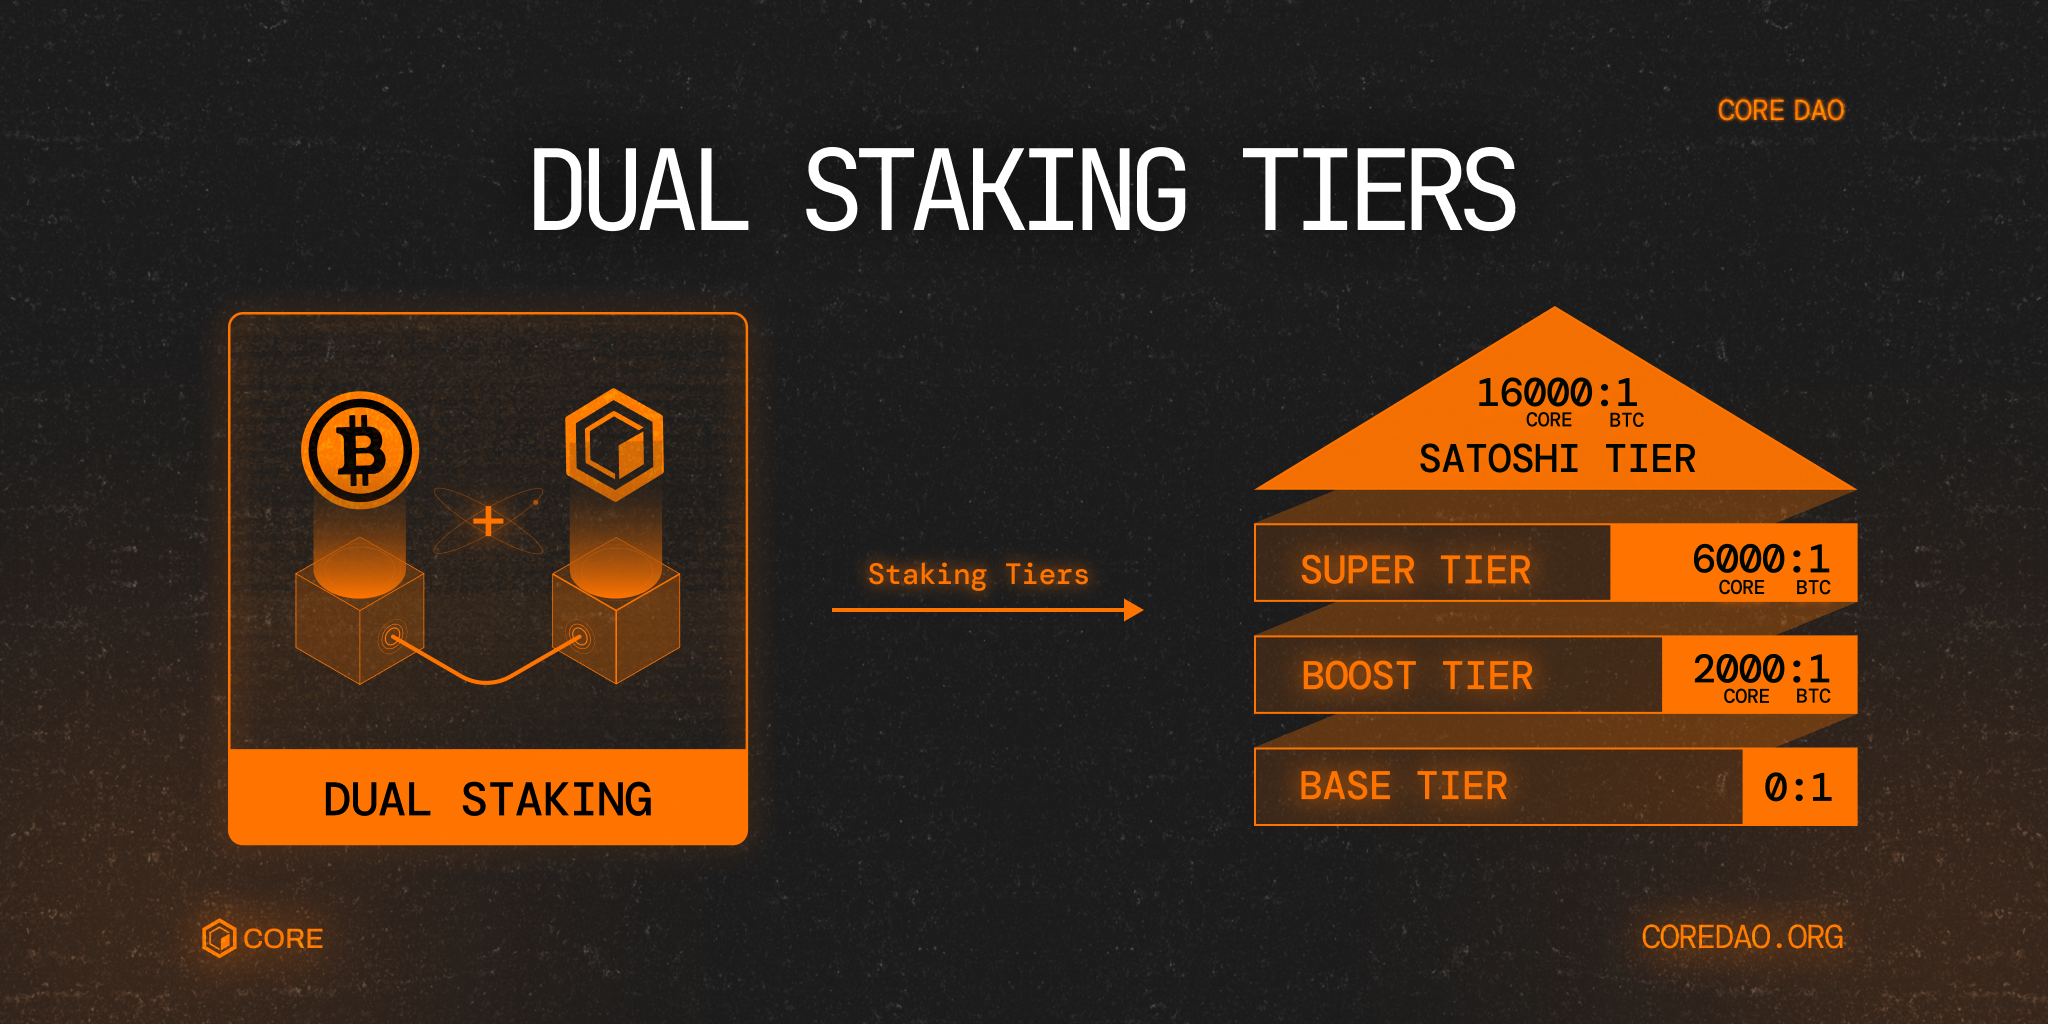
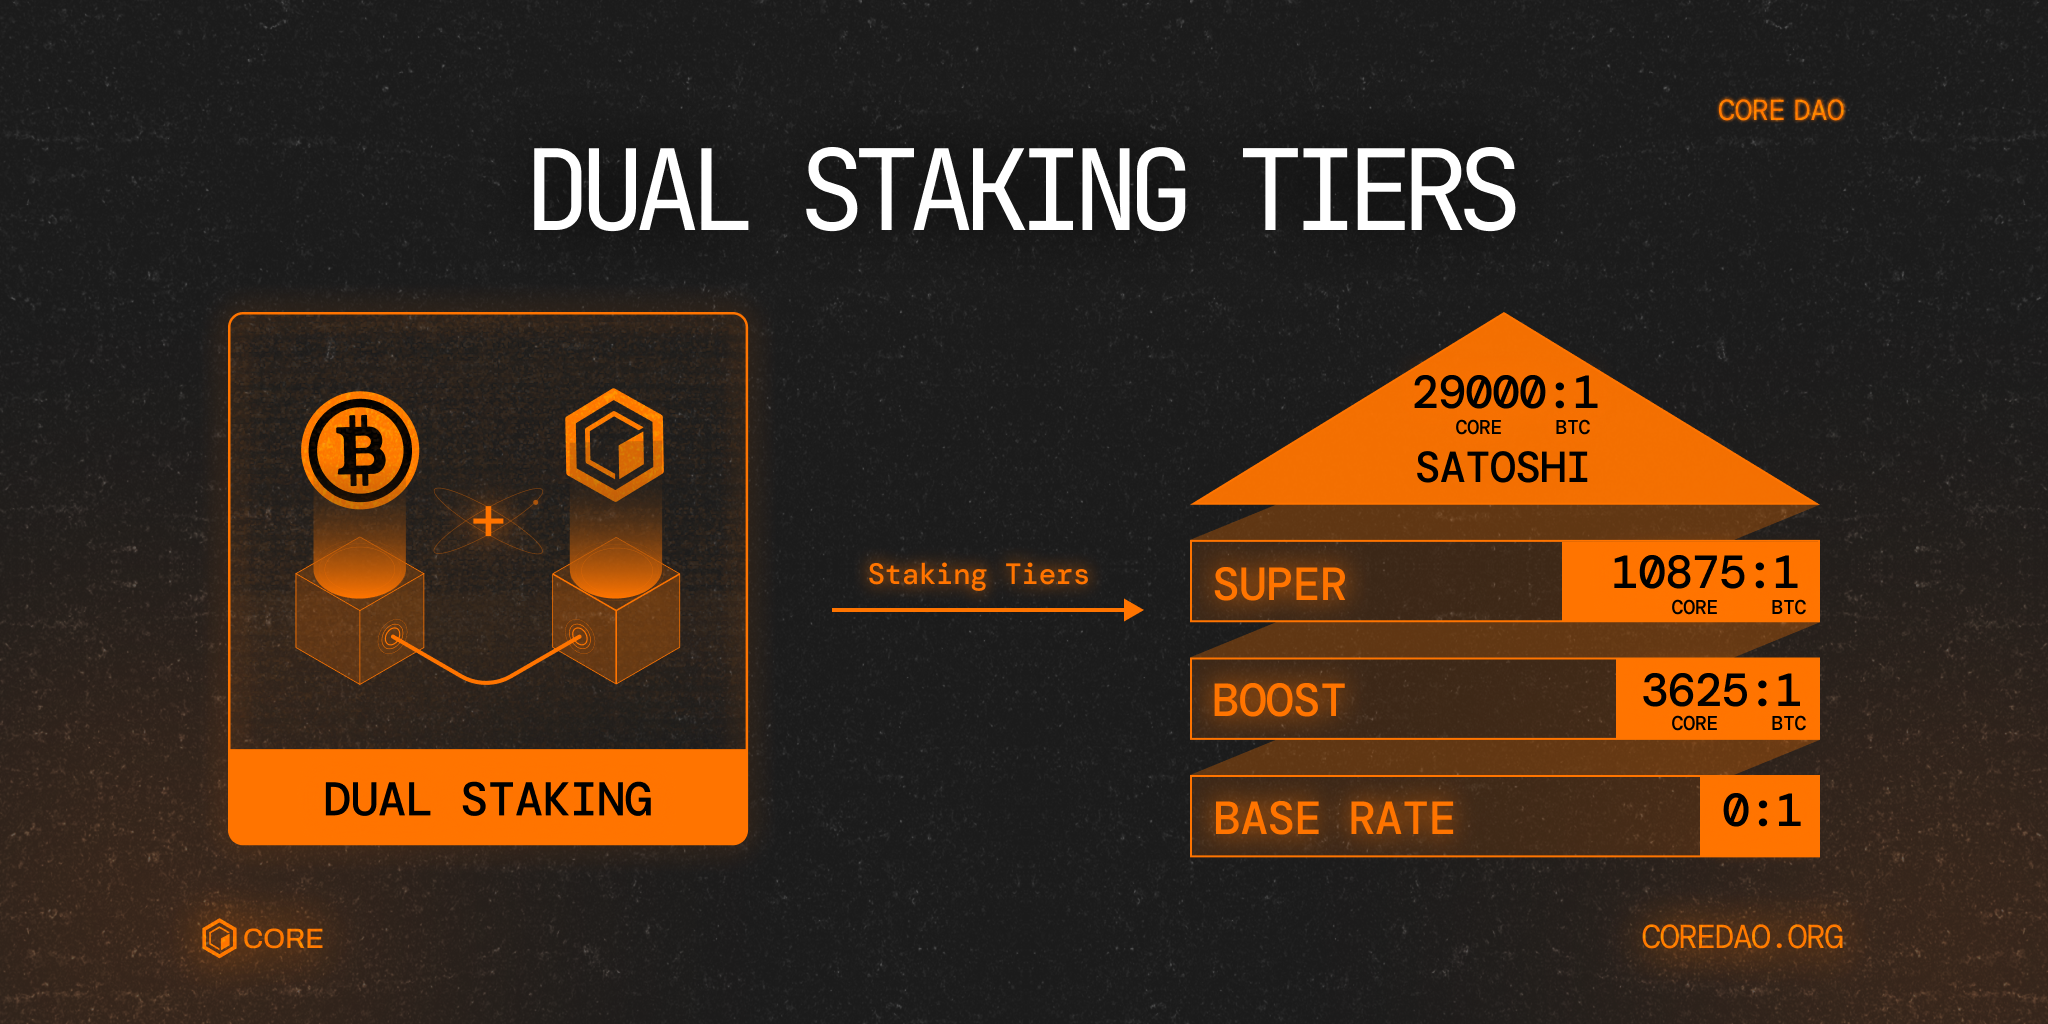
updated dual staking tiers

Changed region(s): [[0.5625, 0.2812, 0.9062, 0.8438]]

diff --git a/docs/stake-and-delegate/dual-staking-working.md b/docs/stake-and-delegate/dual-staking-working.md
@@ -19,7 +19,7 @@ Core operates on **Satoshi Plus consensus**, integrating three delegation source
 By meeting specific **CORE-to-BTC staking ratios**, users gain **boosted Bitcoin staking rewards**, paid in CORE. While Dual Staking enhances BTC staking yields, it does not affect CORE staking rewards directly.
 
 <p align="center">
-<img width="1024" alt="Dual Staking Tiers (8)" src="https://github.com/user-attachments/assets/6ce41ca4-fc7e-476a-814c-4f56665b3c48" />
+<img width="1024" alt="DualStakingTiers" src="../../static/img/dual-staking/dual-staking-tiers.png" />
 </p>
 
 ### Boosted Yield Thresholds
@@ -43,9 +43,9 @@ Effectively, the CORE emissions are distributed pro rata based on the BTC TVL, w
 
 The deciding mechanism for a Bitcoin staker’s yield tier (**P<sub>BASE</sub>**, **P<sub>Level1</sub>**, **P<sub>Level2</sub>**, or **P<sub>Level3</sub> (P<sub>MAX</sub>)**) is based on CORE tokens staked relative to Bitcoin staked, where **R** represents the `CORE:BTC` Ratio and **R<sub>3</sub> \> R<sub>2</sub> \> R<sub>1</sub>**. The current CORE:BTC staking ratios are as follows:
 
-- Staking Ratio R1 \= 3,000 CORE per 1 BTC
-- Staking Ratio R2 \= 9,000 CORE per 1 BTC
-- Staking Ratio R3 \= 24,000 CORE per 1 BTC
+- Staking Ratio R1 \= 3,625 CORE per 1 BTC
+- Staking Ratio R2 \= 10,875 CORE per 1 BTC
+- Staking Ratio R3 \= 29,000 CORE per 1 BTC
 
 Keeping these ratios in mind, users can calculate the required threshold for each tier as follows:
 
@@ -74,23 +74,23 @@ The following is a simple example explaining how to calculate the required CORE 
 
 Now, the user will have to stake CORE as per the following Staked CORE Thresholds to enjoy a higher yield on their staked BTC with the above variables:
 
-- Staking Ratio **R<sub>1</sub>** \= 3,000
-- Staking Ratio **R<sub>2</sub>** \= 9,000
-- Staking Ratio **R<sub>3</sub>** \= 24,000
+- Staking Ratio **R<sub>1</sub>** \= 3,625
+- Staking Ratio **R<sub>2</sub>** \= 10,875
+- Staking Ratio **R<sub>3</sub>** \= 29,000
 - Staked BTC quantity \= 10 BTC
 
 The **Staked CORE Thresholds** with the above variables are:
 
-- Staked CORE Threshold for **P<sub>Level1</sub>** \= 10 \* 3,000 \= 30,000 staked CORE
-- Staked CORE Threshold for **P<sub>Level2</sub>** \= 10 \* 9,000 \= 90,000 staked CORE
-- Staked CORE Threshold for **P<sub>Level3</sub>** \= 10 \* 24,000 \= 240,000 staked CORE
+- Staked CORE Threshold for **P<sub>Level1</sub>** \= 10 \* 3,625 \= 36,250 staked CORE
+- Staked CORE Threshold for **P<sub>Level2</sub>** \= 10 \* 10,875 \= 108,875 staked CORE
+- Staked CORE Threshold for **P<sub>Level3</sub>** \= 10 \* 29,000 \= 290,000 staked CORE
 
 Hence, the staked BTC in this example will enjoy a yield of
 
-- **P<sub>BASE</sub>** if the amount of staked CORE is below 30,000
-- **P<sub>Level1</sub>** if the amount of staked CORE is above or equal to 30,000 but below 90,000
-- **P<sub>Level2</sub>** if the amount of staked CORE is above or equal to 90,000 but below 240,000
-- **P<sub>Level3</sub> (P<sub>MAX</sub>)** if the amount of staked CORE is above or equal to 240,000
+- **P<sub>BASE</sub>** if the amount of staked CORE is below 36,250
+- **P<sub>Level1</sub>** if the amount of staked CORE is above or equal to 36,250 but below 108,875
+- **P<sub>Level2</sub>** if the amount of staked CORE is above or equal to 108,875 but below 290,000
+- **P<sub>Level3</sub> (P<sub>MAX</sub>)** if the amount of staked CORE is above or equal to 290,000
 
 :::note
 The multiplier on each boosted yield tier is dynamic and subject to change based on market supply and demand conditions.

diff --git a/i18n/es/docusaurus-plugin-content-docs/current/stake-and-delegate/dual-staking-working.md b/i18n/es/docusaurus-plugin-content-docs/current/stake-and-delegate/dual-staking-working.md
@@ -43,9 +43,9 @@ Efectivamente, las emisiones de CORE se distribuyen de manera proporcional segú
 
 El mecanismo decisivo para el nivel de rendimiento de un staker de Bitcoin (**P<sub>BASE</sub>**, **P<sub>Level1</sub>**, **P<sub>Level2</sub>**, o **P<sub>Level3</sub> (P<sub>MAX</sub>)**) se basa en los tokens CORE en staking en relación con el Bitcoin en staking, donde **R** representa la relación `CORE:BTC` y **R<sub>3</sub> \> R<sub>2</sub> \> R<sub>1</sub>**. Los actuales ratios de staking CORE:BTC son los siguientes:
 
-- Ratio de Staking R1 \= 3,000 CORE por 1 BTC
-- Ratio de Staking R2 \= 9,000 CORE por 1 BTC
-- Ratio de Staking R3 \= 24,000 CORE por 1 BTC
+- Ratio de Staking R1 \= 3,625 CORE por 1 BTC
+- Ratio de Staking R2 \= 10,875 CORE por 1 BTC
+- Ratio de Staking R3 \= 29,000 CORE por 1 BTC
 
 Teniendo en cuenta estos ratios, los usuarios pueden calcular el umbral requerido para cada nivel como sigue:
 
@@ -74,23 +74,23 @@ El siguiente es un ejemplo sencillo que explica cómo calcular la cantidad de CO
 
 Ahora, el usuario deberá hacer staking de CORE según los siguientes umbrales de CORE en staking para disfrutar de un mayor rendimiento en su BTC en staking con las variables mencionadas anteriormente:
 
-- La relación de staking **R<sub>1</sub>** = 3,000
-- La relación de staking **R<sub>2</sub>** = 9,000
-- La relación de staking **R<sub>3</sub>** = 24,000
+- La relación de staking **R<sub>1</sub>** = 3,625
+- La relación de staking **R<sub>2</sub>** = 10,875
+- La relación de staking **R<sub>3</sub>** = 29,000
 - Cantidad de BTC en staking \= 10 BTC
 
 Los **Umbrales de CORE en Staking** con las variables mencionadas anteriormente son:
 
-- El umbral de CORE en staking para **P<sub>Level1</sub>** \= 10 \* 3,000 \= 30,000 CORE en staking
-- El umbral de CORE en staking para **P<sub>Level2</sub>** = 10 \* 9,000 = 90,000 CORE en staking
-- El umbral de CORE en staking para **P<sub>Level3</sub>** \= 10 \* 24,000 \= 240,000 CORE en staking
+- El umbral de CORE en staking para **P<sub>Level1</sub>** \= 10 \* 3,625 \= 36,250 CORE en staking
+- El umbral de CORE en staking para **P<sub>Level2</sub>** = 10 \* 10,875 = 108,750 CORE en staking
+- El umbral de CORE en staking para **P<sub>Level3</sub>** \= 10 \* 29,000 \= 290,000 CORE en staking
 
 Por lo tanto, el BTC en staking en este ejemplo disfrutará de un rendimiento de
 
-- **P<sub>BASE</sub>** si la cantidad de CORE en staking es inferior a 30,000
-- **P<sub>Nivel1</sub>** si la cantidad de CORE en staking es igual o superior a 30,000 pero inferior a 90,000
-- **P<sub>Nivel2</sub>** si la cantidad de CORE en staking es igual o superior a 90,000 pero inferior a 240,000
-- **P<sub>Nivel3</sub>** si la cantidad de CORE en staking es igual o superior a 240,000
+- **P<sub>BASE</sub>** si la cantidad de CORE en staking es inferior a 36,250
+- **P<sub>Nivel1</sub>** si la cantidad de CORE en staking es igual o superior a 36,250 pero inferior a 108,750
+- **P<sub>Nivel2</sub>** si la cantidad de CORE en staking es igual o superior a 108,750 pero inferior a 290,000
+- **P<sub>Nivel3</sub>** si la cantidad de CORE en staking es igual o superior a 290,000
 
 :::note
 El multiplicador en cada nivel de rendimiento incrementado es dinámico y está sujeto a cambios según las condiciones de oferta y demanda del mercado

diff --git a/i18n/fr/docusaurus-plugin-content-docs/current/stake-and-delegate/dual-staking-working.md b/i18n/fr/docusaurus-plugin-content-docs/current/stake-and-delegate/dual-staking-working.md
@@ -43,9 +43,9 @@ En pratique, les émissions de CORE sont distribuées au prorata en fonction de 
 
 Le mécanisme de décision pour le niveau de rendement d'un staker de Bitcoin (**P<sub>BASE</sub>**, **P<sub>Niveau1</sub>**, **P<sub>Niveau2</sub>**, or **P<sub>Niveau3</sub> (P<sub>MAX</sub>)**) est basé sur les tokens CORE stakés par rapport au Bitcoin staké, où R représente le ratio `CORE:BTC` et **R<sub>3</sub> \> R<sub>2</sub> \> R<sub>1</sub>**. Les ratios de staking CORE:BTC actuels sont les suivants :
 
-- Staking Ratio R1 \= 3,000 CORE per 1 BTC
-- Staking Ratio R2 \= 9,000 CORE per 1 BTC
-- Staking Ratio R3 \= 24,000 CORE per 1 BTC
+- Staking Ratio R1 \= 3,625 CORE per 1 BTC
+- Staking Ratio R2 \= 10,875 CORE per 1 BTC
+- Staking Ratio R3 \= 29,000 CORE per 1 BTC
 
 En gardant ces ratios à l'esprit, les utilisateurs peuvent calculer le seuil requis pour chaque niveau comme suit :
 
@@ -74,23 +74,23 @@ Voici un exemple simple expliquant comment calculer le CORE requis pour staker, 
 
 Supposons que l'utilisateur doive staker du CORE selon les Seuils de CORE Staké suivants pour bénéficier d'un rendement plus élevé sur son BTC staké avec les variables ci-dessus :
 
-- Staking Ratio **R<sub>1</sub>** \= 3,000
-- Staking Ratio **R<sub>2</sub>** \= 9,000
-- Staking Ratio **R<sub>3</sub>** \= 24,000
+- Staking Ratio **R<sub>1</sub>** \= 3,625
+- Staking Ratio **R<sub>2</sub>** \= 10,875
+- Staking Ratio **R<sub>3</sub>** \= 29,000
 - Quantité de BTC staké \= 10 BTC
 
 Les **Seuils de CORE Staké** avec les variables ci-dessus sont :
 
-- Staked CORE Threshold for **P<sub>Level1</sub>** \= 10 \* 3,000 \= 30,000 staked CORE
-- Staked CORE Threshold for **P<sub>Level2</sub>** \= 10 \* 9,000 \= 90,000 staked CORE
-- Seuil de CORE staké **P<sub>Level3</sub>** \= 10 \* 24,000 \= 240,000 staked CORE
+- Staked CORE Threshold for **P<sub>Level1</sub>** \= 10 \* 3,625 \= 36,250 staked CORE
+- Staked CORE Threshold for **P<sub>Level2</sub>** \= 10 \* 10,875 \= 108,875 staked CORE
+- Seuil de CORE staké **P<sub>Level3</sub>** \= 10 \* 29,000 \= 290,000 staked CORE
 
 Ainsi, le BTC staké dans cet exemple bénéficiera d'un rendement de :
 
-- **P<sub>BASE</sub>** si la quantité de CORE staké est inférieure à 30 000
-- **P<sub>Niveau1</sub>** si la quantité de CORE staké est supérieure ou égale à 30 000 mais inférieure à 90 000
-- **P<sub>Niveau2</sub>** si la quantité de CORE staké est supérieure ou égale à 90 000 mais inférieure à 240 000
-- **P<sub>Niveau3</sub> (P<sub>MAX</sub>)** si la quantité de CORE staké est supérieure ou égale à 240 000
+- **P<sub>BASE</sub>** si la quantité de CORE staké est inférieure à 36,250
+- **P<sub>Niveau1</sub>** si la quantité de CORE staké est supérieure ou égale à 36,250 mais inférieure à 108,875
+- **P<sub>Niveau2</sub>** si la quantité de CORE staké est supérieure ou égale à 108,875 mais inférieure à 290,000
+- **P<sub>Niveau3</sub> (P<sub>MAX</sub>)** si la quantité de CORE staké est supérieure ou égale à 290,000
 
 :::note
 Le multiplicateur sur chaque niveau de rendement augmenté est dynamique et sujet à modification en fonction des conditions d'offre et de demande du marché

diff --git a/docs/Learn/core-concepts/dual-staking/overview.md b/docs/Learn/core-concepts/dual-staking/overview.md
@@ -53,17 +53,17 @@ Suppose you stake **10 Bitcoin**.
 
 If tier ratios are defined as:
 
-- **R₁ = 3,000 CORE/Bitcoin**
-- **R₂ = 9,000 CORE/Bitcoin**
-- **R₃ = 24,000 CORE/Bitcoin**
+- **R₁ = 3,625 CORE/Bitcoin**
+- **R₂ = 10,875 CORE/Bitcoin**
+- **R₃ = 29,000 CORE/Bitcoin**
 
 Then your thresholds would be:
 
 | **Tier**     | **CORE Required** |
 | ------------ | ----------------- |
-| Boost Tier   | 30,000 CORE       |
-| Super Tier   | 90,000 CORE       |
-| Satoshi Tier | 240,000 CORE      |
+| Boost Tier   | 36,250 CORE       |
+| Super Tier   | 108,750 CORE       |
+| Satoshi Tier | 290,000 CORE      |
 
 Your reward tier is determined by how much CORE you've delegated relative to your staked Bitcoin.
 
